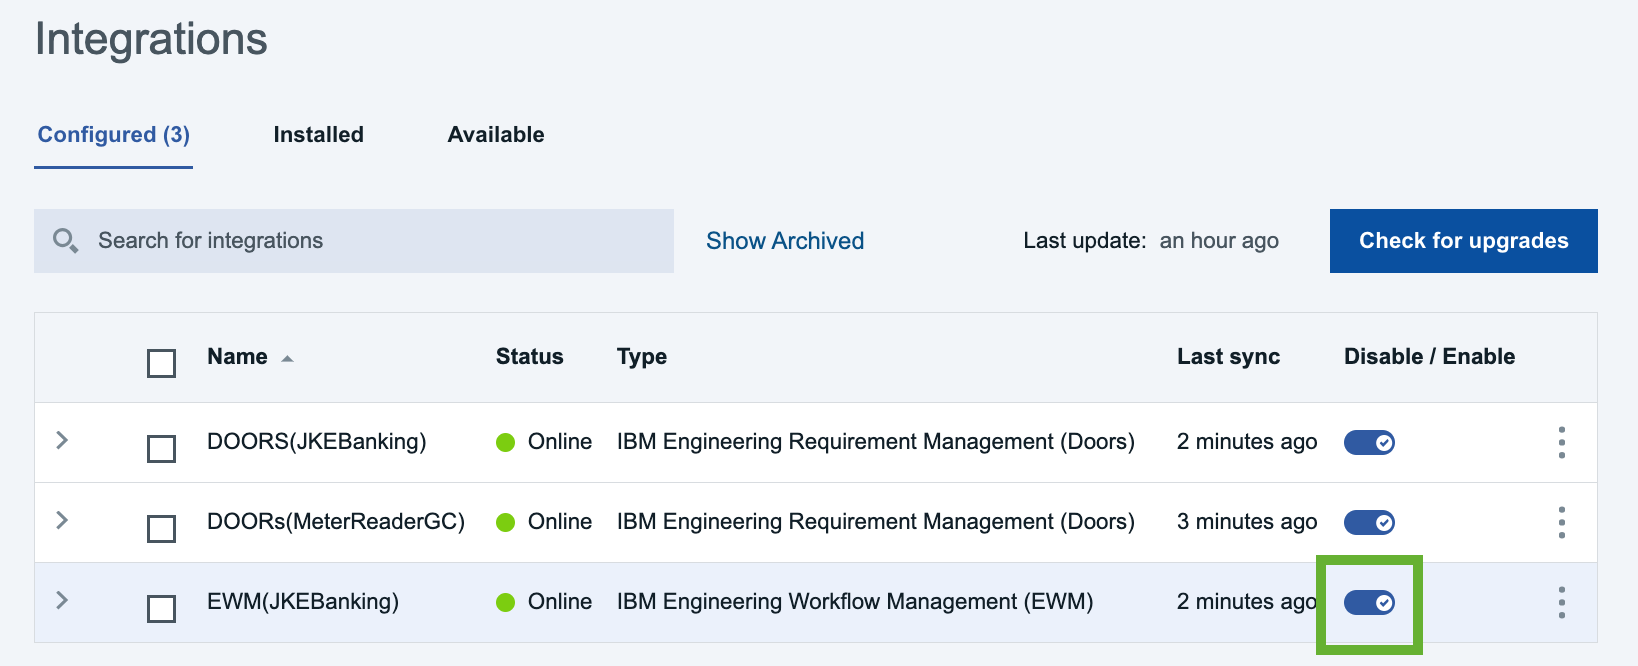
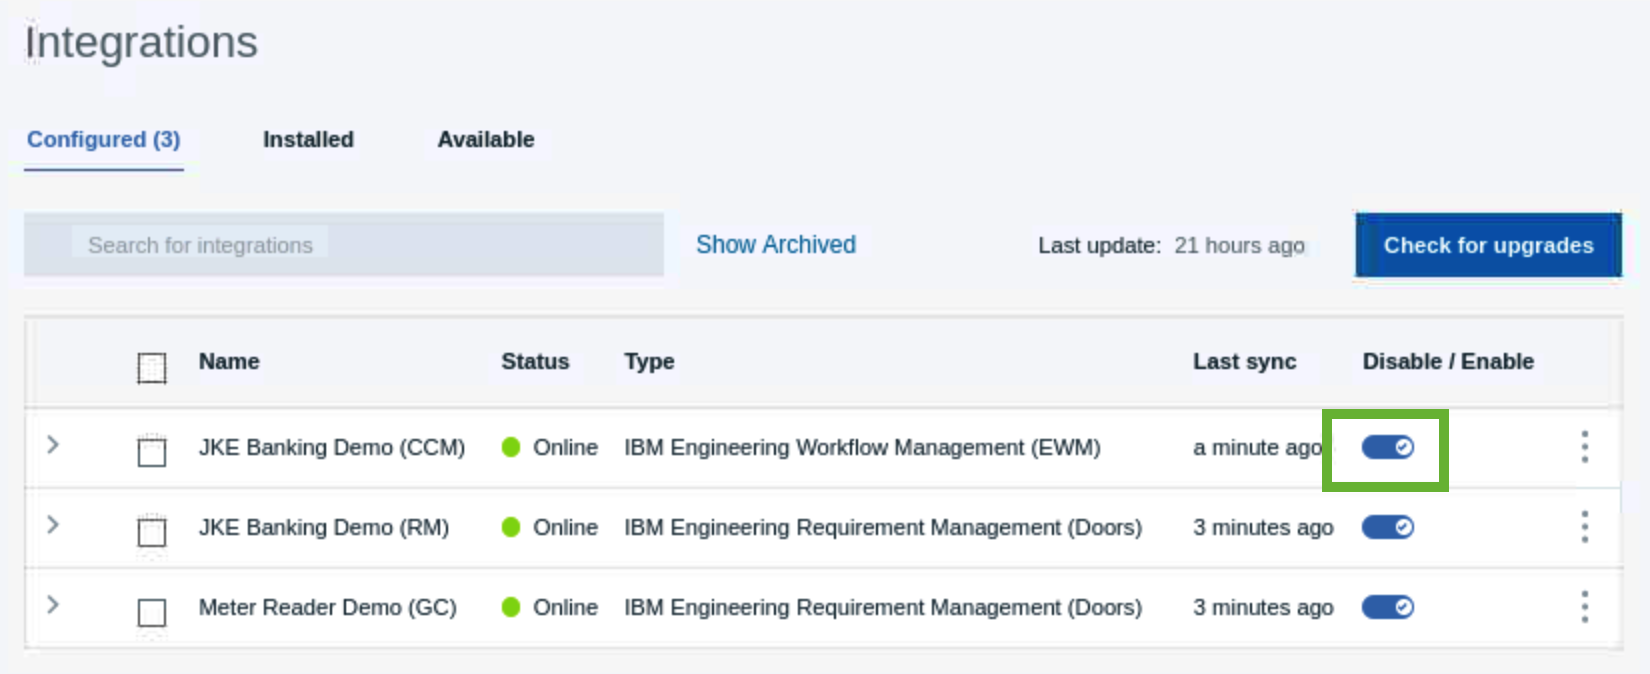
updates to Scenario1

diff --git a/docs/demonstration/index.md b/docs/demonstration/index.md
@@ -80,13 +80,13 @@ The value stream for this demo is architected to align with ELM's default workfl
 | 5 | Click on the "Legend" link located on the sub navigation bar (top RHS of browser window). | <img src="media/d1_5.png" alt="d1_5" style="width:100%; height:auto;"> |
 | 6 | Notice the outlines around the "In Progress" and "Implemented" stages differ. <br/><br/> Referring to the Legend pop up window, the In Progress is showing as slow and would be a location in the delivery pipeline to investigate further. Implemented stage is showing as fast and not the main target of further investigation. | <img src="media/d1_6.png" alt="d1_6" style="width:50%; height:auto;"> |
 | 7 | Focusing on the "In Progress" stage and looking below the stage circle, one can quickly see the average amount of time a work item stays in the In Progress stage. | <img src="media/d1_7.png" alt="d1_7" style="width:30%; height:auto;"> |
-| 8 | Above the average time a work item is a Work in Progress (WIP) limit. Notice that the WIP limit is set at 5 work items where an alert has been triggered because there are 6 work items in the In Progress stage. | <img src="media/d1_8.png" alt="d1_8" style="width:30%; height:auto;"> |
+| 8 | Above the average time a work item is a Work in Progress (WIP) limit. Notice that the WIP limit is set at 5 work items where an alert has been triggered because there are 9 work items in the In Progress stage. | <img src="media/d1_8.png" alt="d1_8" style="width:30%; height:auto;"> |
 | **NOTE:** | WIP measures the number of active work items which are still a work in progress. The rule of thumb for setting a WIP limit is to use the total number of people who execute in a particular pipeline stage + 1. When the WIP limit has been exceeded (indicated by the red font color), it typically means that people have too many work items in flight and are wasting time switching context as they move to working between one work item and another. It is also well documented that the average time wasted as a person shifts from working on one thing to another is approximately 45 minutes each time they change focus. Teams are more efficient when they focus on one work item at a time instead of juggling multiple assignements simultaneously. |   |
 | 9 | Click on one of the "DOTS" in the In Progress stage which has a red circle around it. A red cirlce indicates that a work item has been in a stage longer than the average time. | <img src="media/d1_9.png" alt="d1_9" style="width:30%; height:auto;"> |
 | 10 | The work item card provides more detail about the specific work item, including and an audit trail, providing information to help in getting that work item moving forward in the delivery pipeline. DevOps Velocity's Wait State alert identify work items that are taking too long keeping them top of mind. Close the work item details by clicking the "X" top right of the work item card. | <img src="media/d1_10.png" alt="d1_10" style="width:50%; height:auto;"> |
 | **HINT:** | Returning to the Legend, notice that DevOps Velocity also track Commits and Pull Requests as well as Work Items - story, defect or task. | <img src="media/d1_11.png" alt="d1_11" style="width:50%; height:auto;"> |
 | 11 | Close the Legend pop up window by clicking the "X" in the Legend pop up window. | <img src="media/d1_12.png" alt="d1_12" style="width:50%; height:auto;"> |
-| 12 | Continuing to work in the JKE Value Stream, locate the filters on the sub navigation bar in the value stream view. | <img src="media/d1_13.png" alt="d1_13" style="width:100%; height:auto;"> <br/> <img src="media/d1_14.png" alt="d1_14" style="width:100%; height:auto;"> |
+| 12 | Continuing to work in the JKE BAnking Demo (Change Management) value stream, locate the filters on the sub navigation bar in the value stream view. | <img src="media/d1_13.png" alt="d1_13" style="width:100%; height:auto;"> <br/> <img src="media/d1_14.png" alt="d1_14" style="width:100%; height:auto;"> |
 | 13 | Click on the following filters and select the filtering options as listed below: <br/><br/> <strong>Time:</strong> 60 days (display work items which have been modified in the last 60 days)<br/> <strong>Type:</strong> Story (display work items of Story type only) <br/> <strong>Sprint:</strong> Sprint 2 (display work items which are scheduled for Sprint 2 release) | <img src="media/d1_18.png" alt="d1_18" style="width:100%; height:auto;"> |
 | 14 | Notice that only the work items matching the filter settings are displayed. The filtering capability helps teams display specific work items matching a specific criteria to understand if priority work is progressing as required. | <img src="media/d1_19.png" alt="d1_19" style="width:100%; height:auto;"> |
 | 15 | Clear the filters by clicking the "X" beside the filter name. | <img src="media/d1_20.png" alt="d1_20" style="width:25%; height:auto;"> |
@@ -133,7 +133,7 @@ DevOps Velocity's swimlane view display the same work items as shown on the valu
 | 2 | Click on the "Sprint" swimlane (LHS of browser window). | <img src="media/d1_35.png" alt="d1_35" style="width:25%; height:auto;"> |
 | 3 | Notice how easily you can see the status of each work item in each phase and stage of the value stream helping teams determine if they will deliver work on time and as per plan. | <img src="media/d1_36.png" alt="d1_36" style="width:100%; height:auto;"> |
 | 4 | Click on the "Release", "Type", and "Priority" swimlanes to observe how DevOps Velocity visualizes the work items for each swimlane category similar to what was seen in the Sprint swimlane view. |  |
-| **Example Scenario** | Imagine you are the Team Lead for the JKE Banking product team and have assembled the team to review current assignments with the intent of getting status updates on the assigned work.<br/><br/> How could Velocityß assist in conducting this meeting? |  |
+| **Example Scenario** | Imagine you are the Team Lead for the JKE Banking product team and have assembled the team to review current assignments with the intent of getting status updates on the assigned work.<br/><br/> How could Velocity assist in conducting this meeting? |  |
 | 5 | Click on the "Owner" swimlane view and focussing on the "In Progress" stage see all the work items currently being worked on. | <img src="media/d1_37.png" alt="d1_37" style="width:100%; height:auto;"> |
 | 6 | Notice that Marco has two active work items violating the WIP best practice of one work item at a time and both work items are exceeding the average wait time for In Progress stage. | <img src="media/d1_38.png" alt="d1_38" style="width:100%; height:auto;"> |
 | **NOTE:** | At this point, there would be a conversation asking Marco about the two open work items runnning long. And through that discussion Marco shared that time was being wasted having to ask Bob for updates on the associated Tas assigned to him. And he was also having to provide status updates to Al, owner of the story, for the task assigned to himself. |  |
@@ -151,9 +151,9 @@ DevOps Velocity's swimlane view display the same work items as shown on the valu
 | **NOTE:** | Through the integration between DevOps Velocity and ELM, Velocity will synchronize work item changes every 5 minutes. For the purposes of this demo and to avoid wasting time waiting for the EWM changes to be synchronized with Velocity, perform the following steps. |   |
 | | Click on the "Settings" icon (top RHS of DevOps Velocity browser window". | <img src="media/d1_48.png" alt="d1_48" style="width:50%; height:auto;"> |
 | | On the Settings page, select "Integrations" (the LH navigation bar). | <img src="media/d1_49.png" alt="d1_49" style="width:50%; height:auto;"> |
-| | Click the "Disable/Enable" control for the EWM(JKEBanking) integration toggling from off to back on. <br/> This toggling action will force Velocity to re-sync with EWM and retrieve the changes. | <img src="media/d1_50.png" alt="d1_50" style="width:100%; height:auto;"> |
+| | Click the "Disable/Enable" control for the JKE Banking Demo (CCM) integration toggling from off to back on. <br/> This toggling action will force Velocity to re-sync with EWM and retrieve the changes. | <img src="media/d1_50.png" alt="d1_50" style="width:100%; height:auto;"> |
 | | Return to the "Owner" Swimlane view of the "JKE Banking Demo (Change Management)" value stream. |   |
-| 17 | Perform a plain text search using the phrase "organizations can apply". | <img src="media/d1_51.png" alt="d1_51" style="width:50%; height:auto;"> |
+| 17 | Perform a plain text search using the phrase "organization must". | <img src="media/d1_51.png" alt="d1_51" style="width:50%; height:auto;"> |
 | 18 | Notice that after the changes in EWM, both the story and the task to implemented that story are owned by Marco. | <img src="media/d1_52.png" alt="d1_52" style="width:100%; height:auto;"> |
 
 Very quickly and with the help of DevOps Velocity, the Team Lead was able to review work item distribution and take corrective action to make both Bob and Marco more efficient. As they now own the story and the children tasks to implement that story instead of working on tasks for others stories, this has reduced the time spent having to communicate on progress with others.
